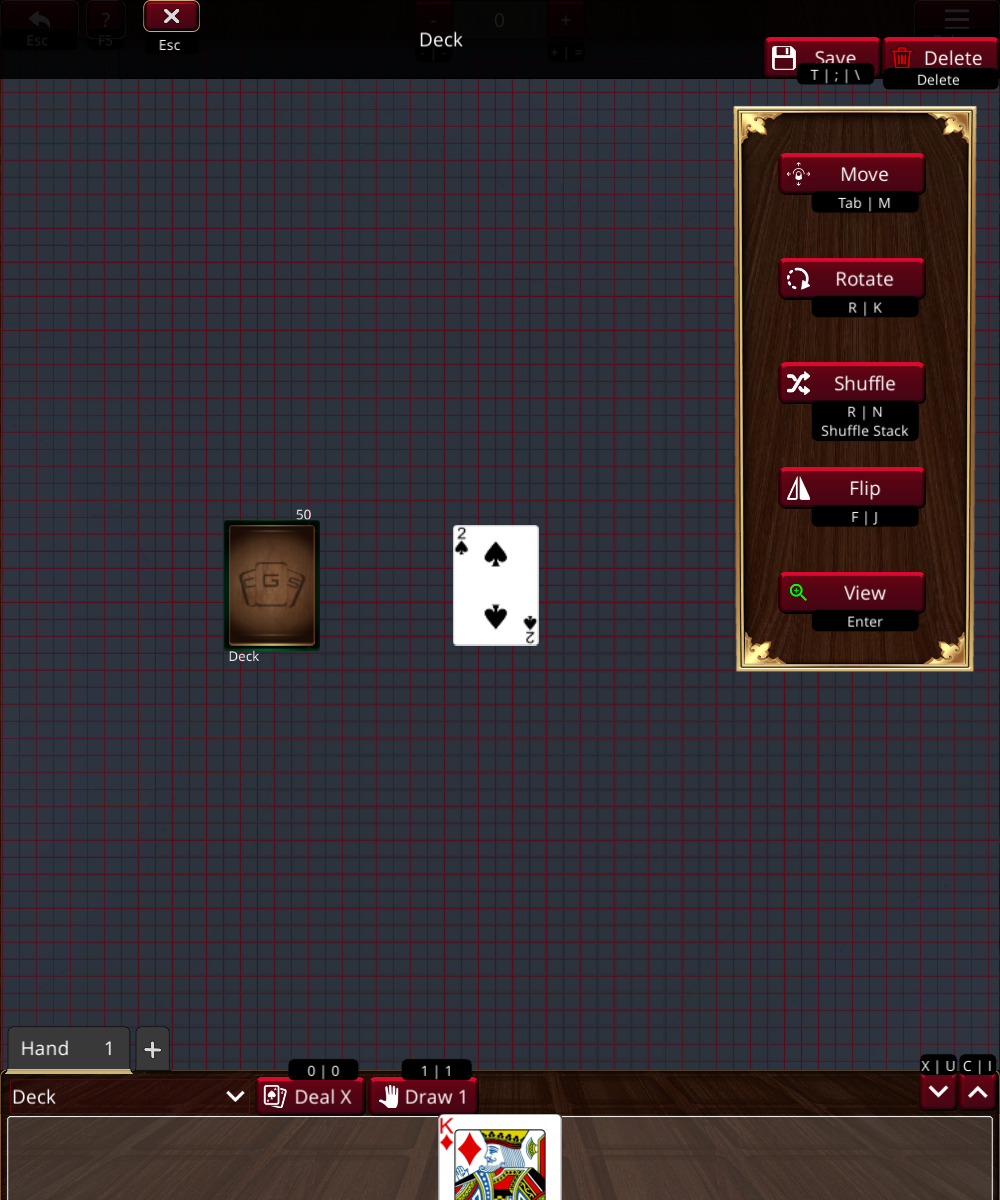
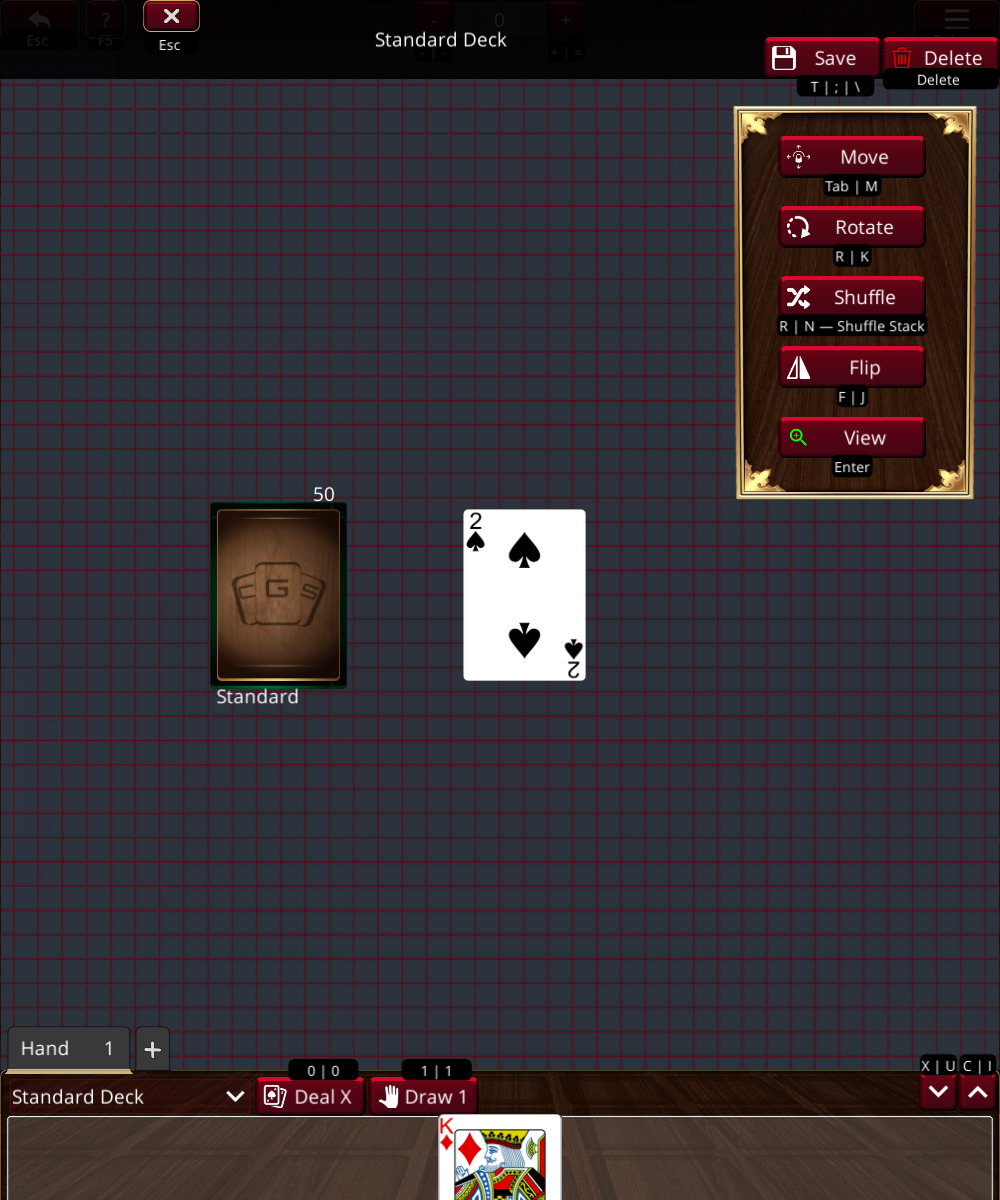
Keep action panels compact with single-line tooltips

Changed region(s): [[0.0, 0.0308, 1.0, 0.8942], [0.0, 0.8942, 0.155, 0.925]]

diff --git a/Assets/Scripts/Cgs/UI/ToolTip.cs b/Assets/Scripts/Cgs/UI/ToolTip.cs
@@ -2,6 +2,7 @@
  * License, v. 2.0. If a copy of the MPL was not distributed with this
  * file, You can obtain one at http://mozilla.org/MPL/2.0/. */
 
+using System.Globalization;
 using Cgs.Menu;
 using UnityEngine;
 using UnityEngine.EventSystems;
@@ -19,6 +20,7 @@ namespace Cgs.UI
         [SerializeField] bool isBelow;
         [SerializeField] string inputActionId;
         [SerializeField] Transform parentTransform;
+        [SerializeField] RectTransform singleLineBounds;
 
         private GameObject ToolTipGameObject => _toolTipGameObject ??= Instantiate(tooltipPrefab,
             parentTransform == null ? transform : parentTransform);
@@ -35,6 +37,9 @@ namespace Cgs.UI
         private Text _toolTipText;
 
         private bool _isOver;
+        private readonly Vector3[] _boundsCorners = new Vector3[4];
+        private string _previousContent;
+        private float _previousWidth = -1;
 
         private string TooltipTextContent
         {
@@ -46,7 +51,11 @@ namespace Cgs.UI
                     return inputActionBinding;
                 var hasBinding = !string.IsNullOrEmpty(inputActionBinding);
                 if (hasBinding)
+                {
+                    if (singleLineBounds != null)
+                        return $"{inputActionBinding} — {tooltip}";
                     return isBelow ? $"{inputActionBinding}\n{tooltip}" : $"{tooltip}\n{inputActionBinding}";
+                }
                 return tooltip;
             }
         }
@@ -79,6 +88,20 @@ namespace Cgs.UI
             ToolTipCanvasGroup.interactable = false;
             ToolTipCanvasGroup.blocksRaycasts = false;
             ToolTipCanvasGroup.alpha = 0; // Initially invisible
+            if (singleLineBounds != null)
+            {
+                ToolTipGameObject.GetComponent<UnityEngine.UI.VerticalLayoutGroup>().enabled = false;
+                ToolTipGameObject.GetComponent<UnityEngine.UI.ContentSizeFitter>().enabled = false;
+                ToolTipText.GetComponent<UnityEngine.UI.ContentSizeFitter>().enabled = false;
+                ToolTipText.horizontalOverflow = HorizontalWrapMode.Overflow;
+                ToolTipText.verticalOverflow = VerticalWrapMode.Truncate;
+                ToolTipText.resizeTextForBestFit = false;
+                var label = ToolTipText.rectTransform;
+                label.anchorMin = Vector2.zero;
+                label.anchorMax = Vector2.one;
+                label.offsetMin = new Vector2(8, 5);
+                label.offsetMax = new Vector2(-8, -5);
+            }
         }
 
         protected void Start()
@@ -109,14 +132,70 @@ namespace Cgs.UI
             }
 
             ToolTipCanvasGroup.alpha = 1;
-            ToolTipText.text = tooltipText;
+            if (singleLineBounds == null)
+                ToolTipText.text = tooltipText;
+            else
+                UpdateSingleLine(tooltipText);
 
             var offsetDirection = isBelow ? Vector2.down : Vector2.up;
             var offsetAmount = avoidOverlap ? 1.0f : 0.5f;
             var rectTransform = (RectTransform)ToolTipGameObject.transform;
             rectTransform.anchoredPosition = offsetDirection * (offsetAmount * rectTransform.sizeDelta.y)
                                              + ((RectTransform)ToolTipGameObject.transform.parent).anchoredPosition;
-            rectTransform.anchoredPosition = new Vector2(0, rectTransform.anchoredPosition.y);
+            var positionX = 0f;
+            if (singleLineBounds != null)
+            {
+                var parent = (RectTransform)rectTransform.parent;
+                var center = parent.InverseTransformPoint(singleLineBounds.TransformPoint(singleLineBounds.rect.center));
+                positionX = center.x - parent.rect.center.x;
+            }
+            rectTransform.anchoredPosition = new Vector2(positionX, rectTransform.anchoredPosition.y);
+        }
+
+        private void UpdateSingleLine(string content)
+        {
+            var rectTransform = (RectTransform)ToolTipGameObject.transform;
+            singleLineBounds.GetWorldCorners(_boundsCorners);
+            var parent = rectTransform.parent;
+            var availableWidth = Mathf.Max(0, parent.InverseTransformPoint(_boundsCorners[2]).x
+                                             - parent.InverseTransformPoint(_boundsCorners[0]).x - 24);
+            if (content == _previousContent && Mathf.Approximately(availableWidth, _previousWidth))
+                return;
+
+            _previousContent = content;
+            _previousWidth = availableWidth;
+            content = content.Replace('\r', ' ').Replace('\n', ' ');
+            var settings = ToolTipText.GetGenerationSettings(Vector2.zero);
+            var generator = ToolTipText.cachedTextGeneratorForLayout;
+            var pixelsPerUnit = ToolTipText.pixelsPerUnit;
+            var width = Mathf.Min(availableWidth, Mathf.Ceil(generator.GetPreferredWidth(content, settings) / pixelsPerUnit) + 16);
+            var height = Mathf.Ceil(generator.GetPreferredHeight("Ag", settings) / pixelsPerUnit) + 10;
+            rectTransform.SetSizeWithCurrentAnchors(RectTransform.Axis.Horizontal, width);
+            rectTransform.SetSizeWithCurrentAnchors(RectTransform.Axis.Vertical, height);
+
+            var textWidth = Mathf.Max(0, width - 16);
+            if (generator.GetPreferredWidth(content, settings) / pixelsPerUnit > textWidth)
+            {
+                // Search text elements so truncation preserves surrogate pairs and combining characters.
+                var elements = StringInfo.ParseCombiningCharacters(content);
+                var low = 0;
+                var high = elements.Length;
+                while (low < high)
+                {
+                    var middle = (low + high + 1) / 2;
+                    var end = middle < elements.Length ? elements[middle] : content.Length;
+                    var candidate = content.Substring(0, end) + "…";
+                    if (generator.GetPreferredWidth(candidate, settings) / pixelsPerUnit <= textWidth)
+                        low = middle;
+                    else
+                        high = middle - 1;
+                }
+                var length = low < elements.Length ? elements[low] : content.Length;
+                content = generator.GetPreferredWidth("…", settings) / pixelsPerUnit <= textWidth
+                    ? content.Substring(0, length) + "…"
+                    : string.Empty;
+            }
+            ToolTipText.text = content;
         }
 
         public void OnPointerEnter(PointerEventData eventData)

diff --git a/Assets/Tests/PlayMode/ActionPanelViewportFitTests.cs b/Assets/Tests/PlayMode/ActionPanelViewportFitTests.cs
@@ -81,6 +81,7 @@ namespace Tests.PlayMode
             var panel = viewer.GetComponentsInChildren<RectTransform>(true).Single(t => t.name == panelName);
             var preferredPositionX = panel.anchoredPosition.x;
             Assert.IsNotNull(panel.GetComponent<ActionPanelViewportFit>());
+            Assert.LessOrEqual(panel.rect.height, 900, "Single-line hints should allow a compact panel.");
             panel.gameObject.SetActive(true);
             viewer.SetActive(true);
             _container.SetActive(true);
@@ -113,6 +114,9 @@ namespace Tests.PlayMode
                         BindingFlags.Instance | BindingFlags.NonPublic).GetValue(tooltip);
                     Assert.IsNotNull(tipObject, $"{prefabName}: {button.name} must create its tooltip.");
                     var tipRect = (RectTransform)tipObject.transform;
+                    AssertSingleLine(tipObject);
+                    StringAssert.DoesNotContain("…", tipObject.GetComponentInChildren<UnityEngine.UI.Text>().text,
+                        "Standard action hints fit the panel and must not be truncated.");
                     var tipBounds = BoundsIn(viewport, tipRect);
                     Assert.GreaterOrEqual(tipBounds.xMin, viewport.rect.xMin - 0.1f, button.name);
                     Assert.LessOrEqual(tipBounds.xMax, viewport.rect.xMax + 0.1f, button.name);
@@ -129,6 +133,10 @@ namespace Tests.PlayMode
                             $"{button.name} tooltip {tipBounds} overlaps {other.name} {buttonBounds} at {size}.");
                     }
                     tooltip.OnPointerExit(null);
+                    yield return null;
+                    yield return null;
+                    StringAssert.DoesNotContain("…", tipObject.GetComponentInChildren<UnityEngine.UI.Text>().text,
+                        "A short shortcut must not be truncated due to fractional text widths.");
                 }
 
                 if (Mathf.Approximately(size.y, 1800))
@@ -138,6 +146,33 @@ namespace Tests.PlayMode
                         "Restore the preferred horizontal position when space returns.");
                 }
             }
+
+            var longTooltip = panel.GetComponentsInChildren<ToolTip>()[0];
+            var serialized = new SerializedObject(longTooltip);
+            serialized.FindProperty("tooltip").stringValue = string.Join(" ", Enumerable.Repeat(
+                "A long action description that must stay on one line", 10));
+            serialized.ApplyModifiedPropertiesWithoutUndo();
+            longTooltip.OnPointerEnter(null);
+            yield return null;
+            yield return null;
+            var longTipObject = (GameObject)typeof(ToolTip).GetField("_toolTipGameObject",
+                BindingFlags.Instance | BindingFlags.NonPublic).GetValue(longTooltip);
+            AssertSingleLine(longTipObject);
+            StringAssert.EndsWith("…", longTipObject.GetComponentInChildren<UnityEngine.UI.Text>().text);
+            Assert.Greater(((RectTransform)longTipObject.transform).rect.width, 500,
+                "Long hints should use the panel width before truncating.");
+            longTooltip.OnPointerExit(null);
+        }
+
+        private static void AssertSingleLine(GameObject tooltip)
+        {
+            var text = tooltip.GetComponentInChildren<UnityEngine.UI.Text>();
+            Assert.IsNotEmpty(text.text);
+            StringAssert.DoesNotContain("\n", text.text);
+            Assert.LessOrEqual(text.preferredWidth, text.rectTransform.rect.width + 0.1f,
+                "Truncated text must fit horizontally without clipping.");
+            Assert.LessOrEqual(((RectTransform)tooltip.transform).rect.height, 60,
+                "Hints must occupy only one line, including their shortcut.");
         }
 
         private static Rect BoundsIn(RectTransform viewport, RectTransform target)

diff --git a/docs/_includes/playing-guide.md b/docs/_includes/playing-guide.md
@@ -46,7 +46,7 @@ This practice session uses **Standard Playing Cards**, included with CGS. It tea
 
    [![A selected two of spades on the table, the deck stack at left, one card remaining in the bottom hand drawer, and the Flip tooltip below its button in the card action panel.](../assets/img/how-to-play/first-table.png)](../assets/img/how-to-play/first-table.png)
 
-   *After playing one of your two cards, one stays in your hand. Select the card on the table to show its actions, including Flip. With tooltips enabled, hover over an action to see its shortcut and description below the button.*
+   *After playing one of your two cards, one stays in your hand. Select the card on the table to show its actions, including Flip. With tooltips enabled, hover over an action to see its shortcut and description on one line below the button. Longer hints end with an ellipsis when space runs out.*
 
 6. **Practice taking a card from the deck.** Start dragging from the stack immediately to pull its top card onto the table. To move the whole stack, press and hold it for about half a second **before** dragging.
 
